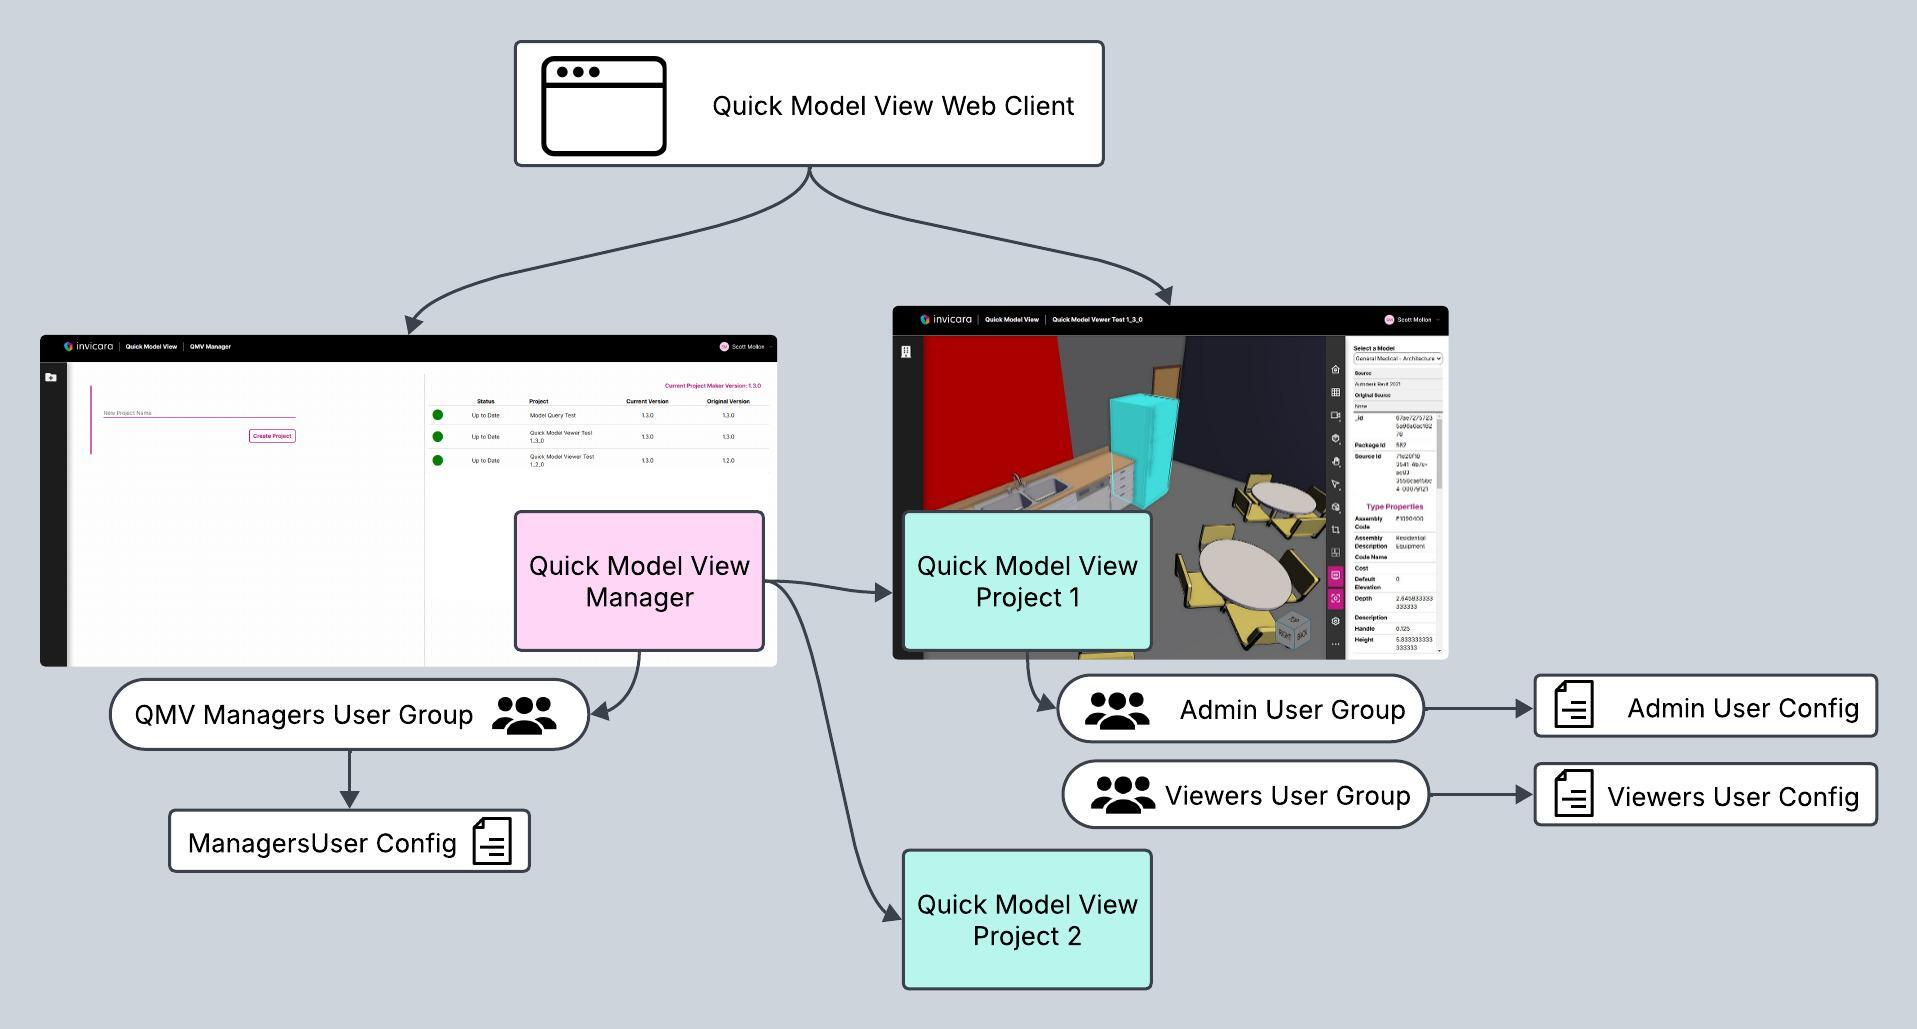
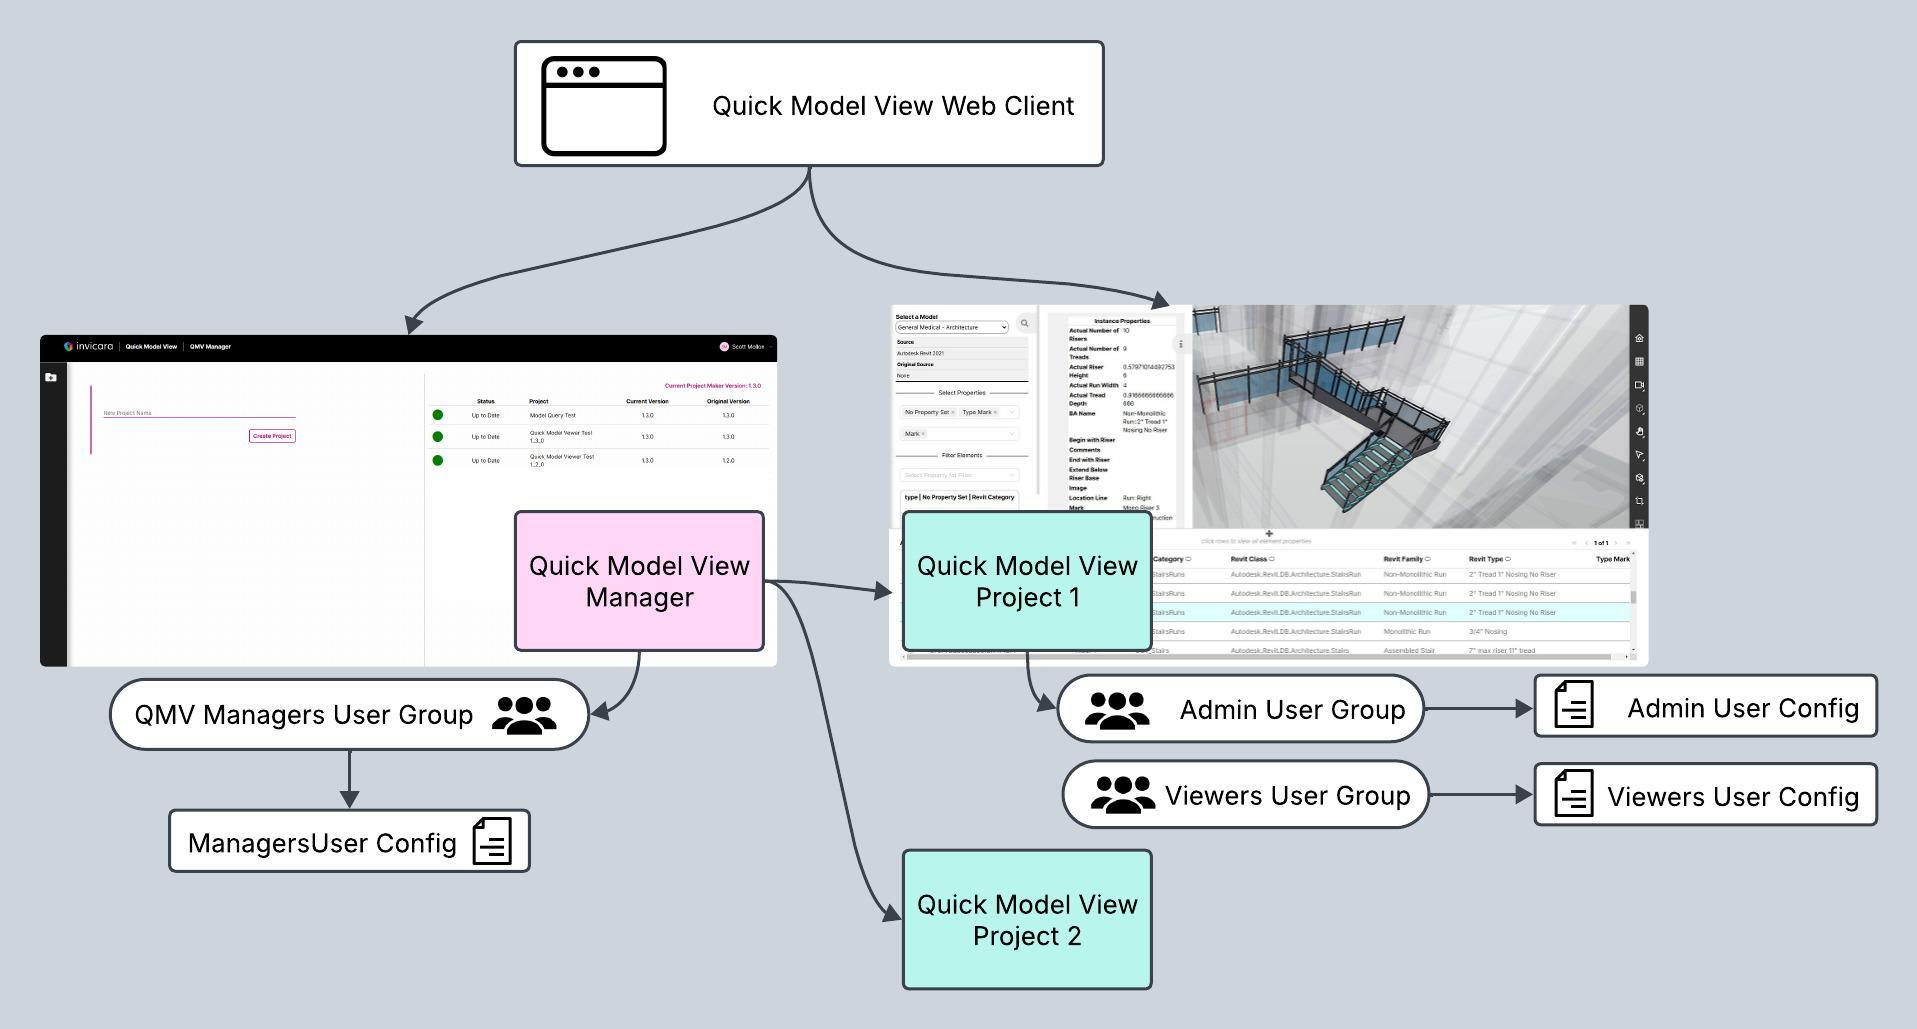
2.0.0 doc updates

Changed region(s): [[0.4309, 0.2177, 0.8618, 0.6531], [0.4309, 0.1866, 0.4617, 0.2177]]

diff --git a/docs/developer guide/implementation/data/imported-model.md b/docs/developer guide/implementation/data/imported-model.md
@@ -86,6 +86,7 @@ Each model NamedCompositeItem is related to a number of NamedUserCollections. Th
 * Element Collection
 * Element Properties Collection
 * Element Type Properties Collection
+* Model Data Cache
 
 You can query for the NamedUserCollections related to a NamedCompositeItem like so:
 
@@ -275,6 +276,42 @@ Here is an example model element type properties item:
       }
    }
 }
+```
+
+### Model Data Cache
+
+The model data cache contains items with data bout the model created during import. Currently the cache contains property references for each unique property found in the model. The property references allow the web client to quickly display the list of unique properties in the search controls.
+
+The data cache can contain many different types of data, so each item has a dataType property on it, allowing for easily finding cache data of a specific type.
+
+Cached property references have a dataType of 'propertyReference'.
+
+Here is an example property reference item:
+```json
+{
+  "dataType": "propertyReference",
+  "property": {
+    "propSetName": "No Property Set",
+    "propertyType": "instance",
+    "dName": "System.elementId",
+    "key": "SystemelementId",
+    "srcType": "INTEGER"
+  },
+  "_id": "67c77bxxxxxc0ea0c",
+  "_metadata": {
+    "_updatedById": "da630aa1-xxxxx-04dea7ec70",
+    "_createdAt": 1741126610225,
+    "_createdById": "da630aa1-xxxxx-04dea7ec70",
+    "_updatedAt": 1741126610225
+  }
+}
+```
+
+You can query property reference cache data like so:
+```js
+let page = await IafItemSvc.getRelatedItems(modelRelatedCollections.dataCache._userItemId, {
+  query : {dataType: 'propertyReference'},
+}, null, { page: { _pageSize: _pageSize, _offset: _offset } })
 ```
 
 ## Retrieving Complete Element Data

diff --git a/docs/developer guide/implementation/general-intro.md b/docs/developer guide/implementation/general-intro.md
@@ -16,6 +16,10 @@ One purpose the template serves is to be an out-of-the-box usable application su
 
 The template also serves as an educational tool about how templates work on Twinit, how to build web clients for Twinit applications, and even how to build your own templates. As such, the code delivered as part of the template is thoroughly (some may say excessively) commented and the template is accompanied by both a developer guide (describing the technical details of the template's implementation) and a user guide. The code is also written to be readable, which means in some cases some coding best practices may have been ignored in favor of delivering easier to read code. As you take the template code and modify for your needs, feel free to improve areas of the code where more efficient and cleaner choices could have been made.
 
+### A Starting Point
+
+The template can also be a starting point for building your own Twinit applications. You are free to take the template code and modify in any way you see fit. Use it, modify it, extend it, and build on it to meet your own use cases.
+
 ## How the Template Works
 
 The Quick Model View Application Template provides one web client that displays a different user interface depending on which type of Quick Model View project you are using.
